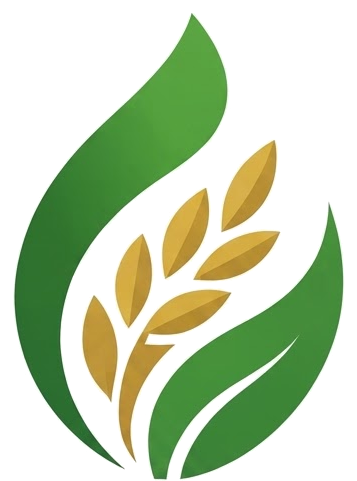
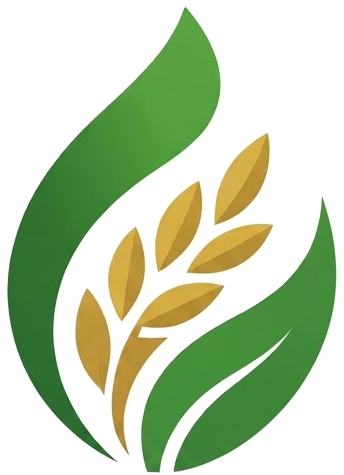
Clean the mill mark, put it in the About circle, clear the range overlay on phones.
Knock out the white fringe on the leaves. The About disc is centred and holds the logo. Range slide CTAs no longer sit on the packs on small screens; arrows are smaller.

diff --git a/css/home.css b/css/home.css
@@ -1684,20 +1684,24 @@ body.home .site-header.scrolled {
   color: var(--forest);
 }
 .home-about-media {
-  width: min(280px, 100%);
+  width: min(260px, 64vw);
+  aspect-ratio: 1 / 1;
   margin: 0 auto;
-  aspect-ratio: 1;
   border-radius: 50%;
   border: 1px solid var(--gold);
-  padding: 14px;
+  padding: 18%;
   overflow: hidden;
-  background: #f5e9d6;
+  background: #fff;
+  box-sizing: border-box;
+  display: grid;
+  place-items: center;
 }
 .home-about-media img {
   width: 100%;
   height: 100%;
-  object-fit: cover;
-  border-radius: 50%;
+  object-fit: contain;
+  object-position: center;
+  border-radius: 0;
   display: block;
 }
 .home-about-copy h3 {
@@ -1858,7 +1862,11 @@ body.home .site-header.scrolled {
 }
 @media (max-width: 720px) {
   .home-about { padding: 52px 0 40px; }
-  .home-about-media { width: min(220px, 70vw); }
+  .home-about-media {
+    width: min(200px, 58vw);
+    margin-left: auto;
+    margin-right: auto;
+  }
   .home-about-timeline {
     padding: 0 12px 0;
   }
@@ -1902,10 +1910,17 @@ body.home .site-header.scrolled {
 @media (max-width: 980px) {
   .home .homepage-banner .hero-arrow {
     display: grid !important;
-    width: 40px;
-    height: 40px;
-    margin-top: -20px;
+    width: 36px;
+    height: 36px;
+    margin-top: -18px;
+    background: rgba(11, 36, 28, 0.42);
   }
-  .home .homepage-banner .hero-arrow.prev { left: 10px; }
-  .home .homepage-banner .hero-arrow.next { right: 10px; }
+  .home .homepage-banner .hero-arrow.prev { left: 8px; }
+  .home .homepage-banner .hero-arrow.next { right: 8px; }
+  .home .homepage-banner .hero-arrow.prev::before { margin-left: 11px; }
+  .home .homepage-banner .hero-arrow.next::before { margin-left: 9px; }
+}
+@media (max-width: 768px) {
+  /* Range art already carries the packs — overlay labels sit on the bags. */
+  .home .slide-range .hero-actions { display: none !important; }
 }

diff --git a/index.html b/index.html
@@ -20,7 +20,7 @@
   <link rel="preconnect" href="https://fonts.gstatic.com" crossorigin>
   <link href="https://fonts.googleapis.com/css2?family=Inter:wght@400;500;600;700&family=Playfair+Display:ital,wght@0,400;0,500;0,600;0,700;1,400;1,500;1,600&family=Noto+Nastaliq+Urdu:wght@400;500;600;700&display=swap" rel="stylesheet">
   <link rel="stylesheet" href="css/style.css?v=93">
-  <link rel="stylesheet" href="css/home.css?v=92">
+  <link rel="stylesheet" href="css/home.css?v=93">
 <script type="application/ld+json">
   {"@context":"https://schema.org","@type":"Organization","name":"Saith Hanif Rice Mills","url":"https://muhammadashir0.github.io/jhabran-rice-mill/","foundingDate":"1979","email":"saithhanifsailaricemills@gmail.com","telephone":"+923133332101","address":{"@type":"PostalAddress","streetAddress":"Sheikhupura–Hafizabad Road, Grain Market Jhabran","addressLocality":"Sheikhupura","addressRegion":"Punjab","addressCountry":"PK"},"brand":[{"@type":"Brand","name":"Ziyarat"},{"@type":"Brand","name":"Sultan"},{"@type":"Brand","name":"Wazir"}]}
   </script>
@@ -157,7 +157,7 @@
             <h2>A mill at Grain Market Jhabran. Rice since 1979.</h2>
           </div>
           <div class="home-about-media" data-aos="fade-up">
-            <img src="assets/images/about-fields.jpg" alt="Agricultural landscape around Jhabran, Sheikhupura, Punjab" width="500" height="500" loading="lazy" decoding="async">
+            <img src="assets/images/mark.png" alt="Saith Hanif Rice Mills" width="220" height="296" loading="lazy" decoding="async">
           </div>
           <div class="home-about-copy" data-aos="fade-left">
             <h3>A legacy of excellence since 1979.</h3>

diff --git a/product-sella.html b/product-sella.html
@@ -19,7 +19,7 @@
   <link rel="preconnect" href="https://fonts.gstatic.com" crossorigin>
   <link href="https://fonts.googleapis.com/css2?family=Inter:wght@400;500;600;700&family=Playfair+Display:ital,wght@0,400;0,500;0,600;0,700;1,400;1,500;1,600&family=Noto+Nastaliq+Urdu:wght@400;500;600;700&display=swap" rel="stylesheet">
   <link rel="stylesheet" href="css/style.css?v=93">
-  <link rel="stylesheet" href="css/home.css?v=92">
+  <link rel="stylesheet" href="css/home.css?v=93">
   <link rel="stylesheet" href="css/premium.css?v=2">
   <script type="application/ld+json">
   {"@context": "https://schema.org", "@type": "Product", "name": "Kainat Sella Rice 1121", "brand": {"@type": "Brand", "name": "Ziyarat"}, "description": "Ziyarat Kainat Sella 1121 — extra-long parboiled rice from Saith Hanif Rice Mills. Suitable where cooked rice needs to hold. Pack sizes 5 / 10 / 20 / 25 kg.", "image": "https://muhammadashir0.github.io/jhabran-rice-mill/assets/products/ziyarat-sella-1121.jpg?v=4", "manufacturer": {"@type": "Organization", "name": "Saith Hanif Rice Mills", "url": "https://muhammadashir0.github.io/jhabran-rice-mill/"}}

diff --git a/product-steam.html b/product-steam.html
@@ -19,7 +19,7 @@
   <link rel="preconnect" href="https://fonts.gstatic.com" crossorigin>
   <link href="https://fonts.googleapis.com/css2?family=Inter:wght@400;500;600;700&family=Playfair+Display:ital,wght@0,400;0,500;0,600;0,700;1,400;1,500;1,600&family=Noto+Nastaliq+Urdu:wght@400;500;600;700&display=swap" rel="stylesheet">
   <link rel="stylesheet" href="css/style.css?v=93">
-  <link rel="stylesheet" href="css/home.css?v=92">
+  <link rel="stylesheet" href="css/home.css?v=93">
   <link rel="stylesheet" href="css/premium.css?v=2">
   <script type="application/ld+json">
   {"@context": "https://schema.org", "@type": "Product", "name": "Kainat Steam Rice 1121", "brand": {"@type": "Brand", "name": "Ziyarat"}, "description": "Ziyarat Kainat Steam 1121 — extra-long steamed rice from Saith Hanif Rice Mills in Sheikhupura. Pack sizes 5 / 10 / 20 / 25 kg. Enquire for specifications.", "image": "https://muhammadashir0.github.io/jhabran-rice-mill/assets/products/ziyarat-steam-1121.jpg?v=4", "manufacturer": {"@type": "Organization", "name": "Saith Hanif Rice Mills", "url": "https://muhammadashir0.github.io/jhabran-rice-mill/"}}

diff --git a/product-classic.html b/product-classic.html
@@ -19,7 +19,7 @@
   <link rel="preconnect" href="https://fonts.gstatic.com" crossorigin>
   <link href="https://fonts.googleapis.com/css2?family=Inter:wght@400;500;600;700&family=Playfair+Display:ital,wght@0,400;0,500;0,600;0,700;1,400;1,500;1,600&family=Noto+Nastaliq+Urdu:wght@400;500;600;700&display=swap" rel="stylesheet">
   <link rel="stylesheet" href="css/style.css?v=93">
-  <link rel="stylesheet" href="css/home.css?v=92">
+  <link rel="stylesheet" href="css/home.css?v=93">
   <link rel="stylesheet" href="css/premium.css?v=2">
   <script type="application/ld+json">
   {"@context": "https://schema.org", "@type": "Product", "name": "Classic Kainat Basmati Sella", "brand": {"@type": "Brand", "name": "Ziyarat"}, "description": "Ziyarat Classic Kainat Basmati Sella — extra-long parboiled basmati from Saith Hanif Rice Mills. Distinct from the purple 1121 sella sack.", "image": "https://muhammadashir0.github.io/jhabran-rice-mill/assets/products/ziyarat-classic-sella.jpg?v=4", "manufacturer": {"@type": "Organization", "name": "Saith Hanif Rice Mills", "url": "https://muhammadashir0.github.io/jhabran-rice-mill/"}}

diff --git a/product-sultan-sella.html b/product-sultan-sella.html
@@ -19,7 +19,7 @@
   <link rel="preconnect" href="https://fonts.gstatic.com" crossorigin>
   <link href="https://fonts.googleapis.com/css2?family=Inter:wght@400;500;600;700&family=Playfair+Display:ital,wght@0,400;0,500;0,600;0,700;1,400;1,500;1,600&family=Noto+Nastaliq+Urdu:wght@400;500;600;700&display=swap" rel="stylesheet">
   <link rel="stylesheet" href="css/style.css?v=93">
-  <link rel="stylesheet" href="css/home.css?v=92">
+  <link rel="stylesheet" href="css/home.css?v=93">
   <link rel="stylesheet" href="css/premium.css?v=2">
   <script type="application/ld+json">
   {"@context": "https://schema.org", "@type": "Product", "name": "Sultan Kainat Basmati Sella", "brand": {"@type": "Brand", "name": "Sultan"}, "description": "Sultan Kainat Basmati Sella from Saith Hanif Rice Mills — extra-long parboiled rice under the Sultan brand. Pack sizes 5 / 10 / 20 / 25 kg.", "image": "https://muhammadashir0.github.io/jhabran-rice-mill/assets/products/sultan-sella.jpg?v=4", "manufacturer": {"@type": "Organization", "name": "Saith Hanif Rice Mills", "url": "https://muhammadashir0.github.io/jhabran-rice-mill/"}}

diff --git a/product-classic-steam.html b/product-classic-steam.html
@@ -19,7 +19,7 @@
   <link rel="preconnect" href="https://fonts.gstatic.com" crossorigin>
   <link href="https://fonts.googleapis.com/css2?family=Inter:wght@400;500;600;700&family=Playfair+Display:ital,wght@0,400;0,500;0,600;0,700;1,400;1,500;1,600&family=Noto+Nastaliq+Urdu:wght@400;500;600;700&display=swap" rel="stylesheet">
   <link rel="stylesheet" href="css/style.css?v=93">
-  <link rel="stylesheet" href="css/home.css?v=92">
+  <link rel="stylesheet" href="css/home.css?v=93">
   <link rel="stylesheet" href="css/premium.css?v=2">
   <script type="application/ld+json">
   {"@context": "https://schema.org", "@type": "Product", "name": "Classic Kainat Basmati Steam", "brand": {"@type": "Brand", "name": "Ziyarat"}, "description": "Ziyarat Classic Kainat Basmati Steam — extra-long steamed basmati from Saith Hanif Rice Mills. Distinct from green Steam 1121.", "image": "https://muhammadashir0.github.io/jhabran-rice-mill/assets/products/ziyarat-classic-steam.jpg?v=4", "manufacturer": {"@type": "Organization", "name": "Saith Hanif Rice Mills", "url": "https://muhammadashir0.github.io/jhabran-rice-mill/"}}

diff --git a/product-basmati.html b/product-basmati.html
@@ -19,7 +19,7 @@
   <link rel="preconnect" href="https://fonts.gstatic.com" crossorigin>
   <link href="https://fonts.googleapis.com/css2?family=Inter:wght@400;500;600;700&family=Playfair+Display:ital,wght@0,400;0,500;0,600;0,700;1,400;1,500;1,600&family=Noto+Nastaliq+Urdu:wght@400;500;600;700&display=swap" rel="stylesheet">
   <link rel="stylesheet" href="css/style.css?v=93">
-  <link rel="stylesheet" href="css/home.css?v=92">
+  <link rel="stylesheet" href="css/home.css?v=93">
   <link rel="stylesheet" href="css/premium.css?v=2">
   <script type="application/ld+json">
   {"@context": "https://schema.org", "@type": "Product", "name": "Ziyarat Basmati Rice", "brand": {"@type": "Brand", "name": "Ziyarat"}, "description": "Ziyarat Basmati Rice from Saith Hanif Rice Mills — everyday fragrant basmati, not extra-long 1121. Pack sizes 5 / 10 / 20 / 25 kg.", "image": "https://muhammadashir0.github.io/jhabran-rice-mill/assets/products/ziyarat-basmati.jpg?v=4", "manufacturer": {"@type": "Organization", "name": "Saith Hanif Rice Mills", "url": "https://muhammadashir0.github.io/jhabran-rice-mill/"}}

diff --git a/product-wazir-steam.html b/product-wazir-steam.html
@@ -19,7 +19,7 @@
   <link rel="preconnect" href="https://fonts.gstatic.com" crossorigin>
   <link href="https://fonts.googleapis.com/css2?family=Inter:wght@400;500;600;700&family=Playfair+Display:ital,wght@0,400;0,500;0,600;0,700;1,400;1,500;1,600&family=Noto+Nastaliq+Urdu:wght@400;500;600;700&display=swap" rel="stylesheet">
   <link rel="stylesheet" href="css/style.css?v=93">
-  <link rel="stylesheet" href="css/home.css?v=92">
+  <link rel="stylesheet" href="css/home.css?v=93">
   <link rel="stylesheet" href="css/premium.css?v=2">
   <script type="application/ld+json">
   {"@context": "https://schema.org", "@type": "Product", "name": "Wazir Kainat Steam 1121", "brand": {"@type": "Brand", "name": "Wazir"}, "description": "Wazir Kainat Steam 1121 from Saith Hanif Rice Mills — extra-long steamed rice under the Wazir brand. Pack sizes 5 / 10 / 20 / 25 kg.", "image": "https://muhammadashir0.github.io/jhabran-rice-mill/assets/products/blank.jpg?v=1", "manufacturer": {"@type": "Organization", "name": "Saith Hanif Rice Mills", "url": "https://muhammadashir0.github.io/jhabran-rice-mill/"}}

diff --git a/product-short-grain.html b/product-short-grain.html
@@ -19,7 +19,7 @@
   <link rel="preconnect" href="https://fonts.gstatic.com" crossorigin>
   <link href="https://fonts.googleapis.com/css2?family=Inter:wght@400;500;600;700&family=Playfair+Display:ital,wght@0,400;0,500;0,600;0,700;1,400;1,500;1,600&family=Noto+Nastaliq+Urdu:wght@400;500;600;700&display=swap" rel="stylesheet">
   <link rel="stylesheet" href="css/style.css?v=93">
-  <link rel="stylesheet" href="css/home.css?v=92">
+  <link rel="stylesheet" href="css/home.css?v=93">
   <link rel="stylesheet" href="css/premium.css?v=2">
   <script type="application/ld+json">
   {"@context": "https://schema.org", "@type": "Product", "name": "Ziyarat Short Grain", "brand": {"@type": "Brand", "name": "Ziyarat"}, "description": "Ziyarat Short Grain rice from Saith Hanif Rice Mills — shorter kernel, not extra-long 1121. Pack sizes 5 / 10 / 20 / 25 kg.", "image": "https://muhammadashir0.github.io/jhabran-rice-mill/assets/products/ziyarat-short.jpg?v=4", "manufacturer": {"@type": "Organization", "name": "Saith Hanif Rice Mills", "url": "https://muhammadashir0.github.io/jhabran-rice-mill/"}}

diff --git a/product-b1.html b/product-b1.html
@@ -19,7 +19,7 @@
   <link rel="preconnect" href="https://fonts.gstatic.com" crossorigin>
   <link href="https://fonts.googleapis.com/css2?family=Inter:wght@400;500;600;700&family=Playfair+Display:ital,wght@0,400;0,500;0,600;0,700;1,400;1,500;1,600&family=Noto+Nastaliq+Urdu:wght@400;500;600;700&display=swap" rel="stylesheet">
   <link rel="stylesheet" href="css/style.css?v=93">
-  <link rel="stylesheet" href="css/home.css?v=92">
+  <link rel="stylesheet" href="css/home.css?v=93">
   <link rel="stylesheet" href="css/premium.css?v=2">
   <script type="application/ld+json">
   {"@context": "https://schema.org", "@type": "Product", "name": "Ziyarat B-1 Broken", "brand": {"@type": "Brand", "name": "Ziyarat"}, "description": "Ziyarat B-1 Broken rice from Saith Hanif Rice Mills. Broken grain for catering and value cooking — not whole extra-long rice.", "image": "https://muhammadashir0.github.io/jhabran-rice-mill/assets/products/ziyarat-b1.jpg?v=4", "manufacturer": {"@type": "Organization", "name": "Saith Hanif Rice Mills", "url": "https://muhammadashir0.github.io/jhabran-rice-mill/"}}

diff --git a/product-awami.html b/product-awami.html
@@ -19,7 +19,7 @@
   <link rel="preconnect" href="https://fonts.gstatic.com" crossorigin>
   <link href="https://fonts.googleapis.com/css2?family=Inter:wght@400;500;600;700&family=Playfair+Display:ital,wght@0,400;0,500;0,600;0,700;1,400;1,500;1,600&family=Noto+Nastaliq+Urdu:wght@400;500;600;700&display=swap" rel="stylesheet">
   <link rel="stylesheet" href="css/style.css?v=93">
-  <link rel="stylesheet" href="css/home.css?v=92">
+  <link rel="stylesheet" href="css/home.css?v=93">
   <link rel="stylesheet" href="css/premium.css?v=2">
   <script type="application/ld+json">
   {"@context": "https://schema.org", "@type": "Product", "name": "Basmati Awami Rice", "brand": {"@type": "Brand", "name": "Ziyarat"}, "description": "Ziyarat Basmati Awami — everyday fragrant rice from Saith Hanif Rice Mills, below Classic and 1121 in the range.", "image": "https://muhammadashir0.github.io/jhabran-rice-mill/assets/products/ziyarat-awami.jpg?v=4", "manufacturer": {"@type": "Organization", "name": "Saith Hanif Rice Mills", "url": "https://muhammadashir0.github.io/jhabran-rice-mill/"}}
